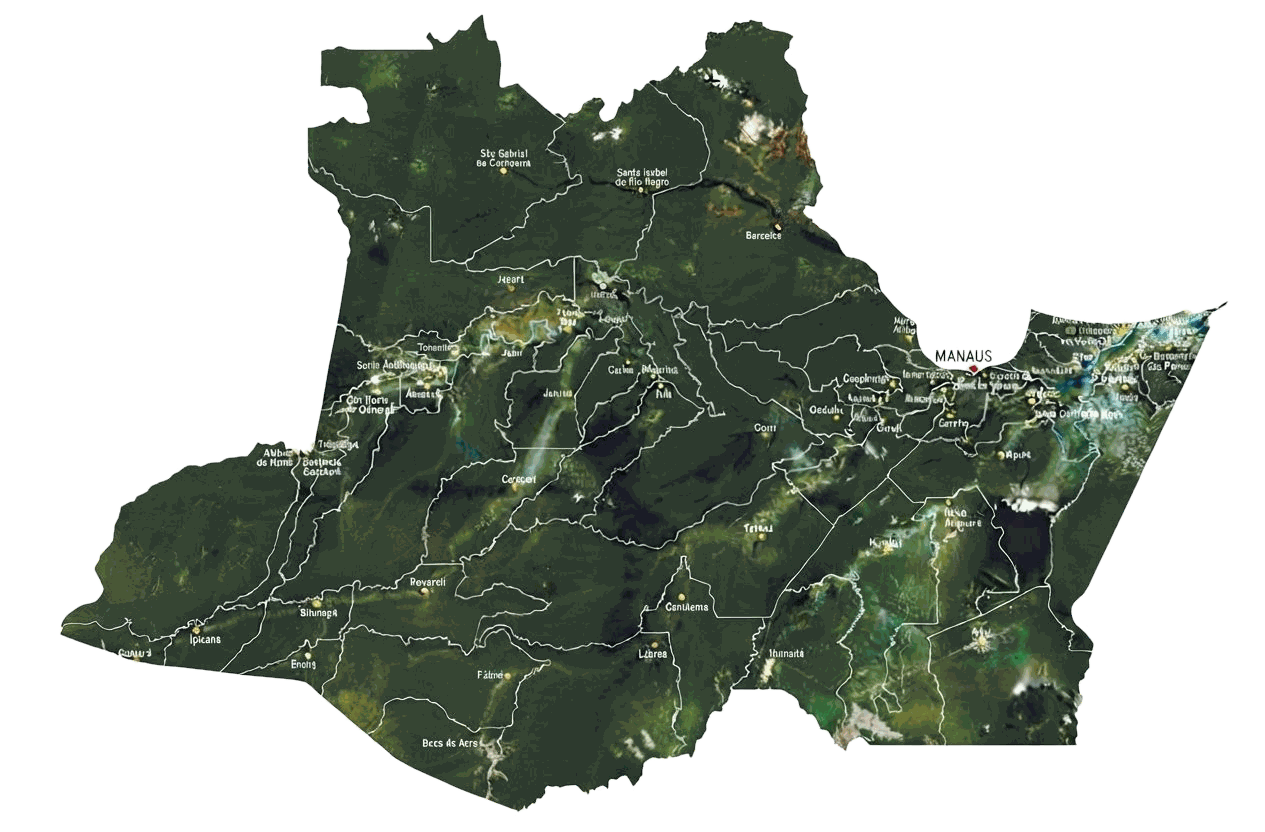
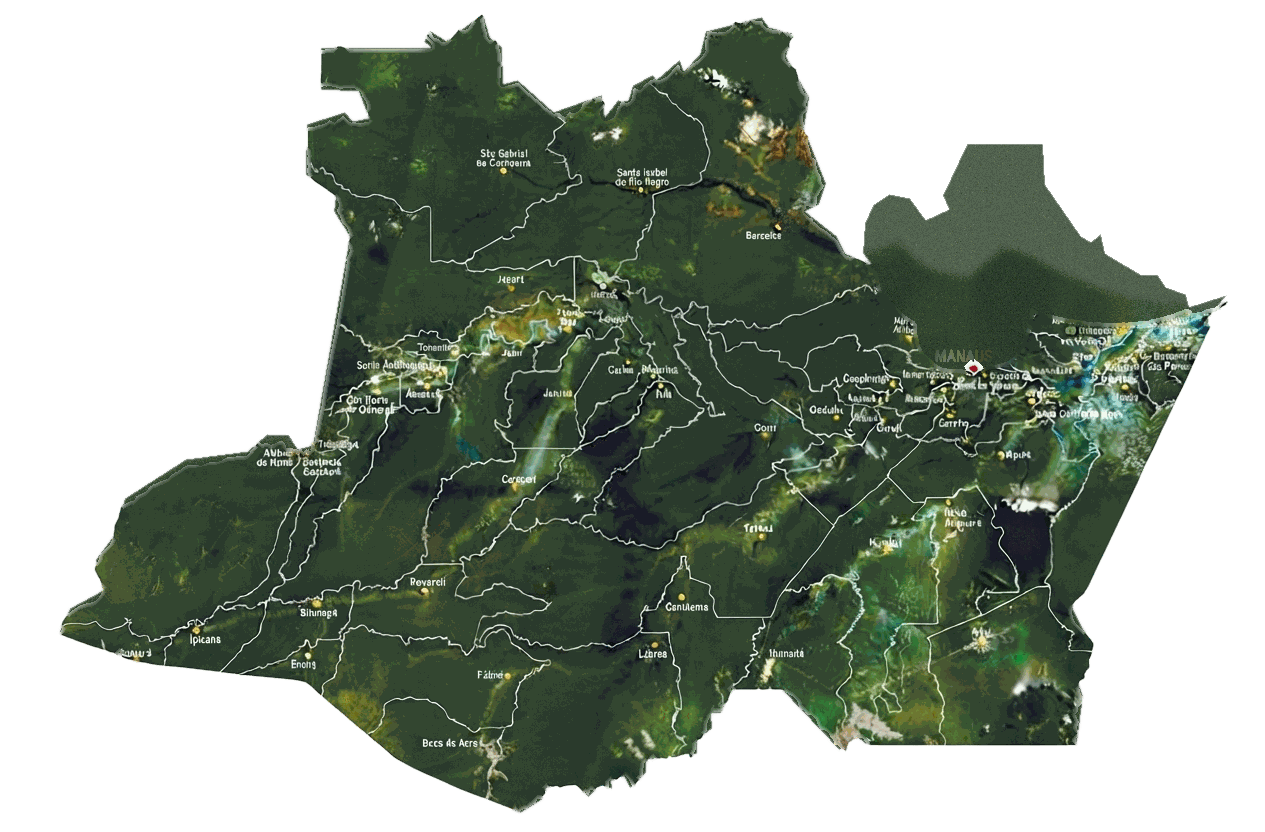
version 1.116
att

diff --git a/README.md b/README.md
@@ -347,13 +347,18 @@ de um pino e o relevo da foto embaixo dele podem acontecer, principalmente
 perto das bordas do estado.
 
 A foto original não cobria 100% do contorno oficial do estado (faltava um
-pedaço perto do canto nordeste) — o que apareceria como uma área branca
-"furando" o mapa. Corrigido tornando transparente só o fundo branco de
-verdade da foto (achado com preenchimento por inundação a partir das
-bordas da imagem, preservando texturas brancas que fazem parte da própria
-ilustração, como nuvens no meio da mata) e colocando atrás dela um verde
-de reserva (gradiente `fundoVerde`) — some qualquer parte sem cobertura,
-sem deixar branco aparecendo.
+pedaço perto do canto nordeste) — apareceria como uma área branca
+"furando" o mapa, destoando do resto. Em vez de só deixar transparente e
+mostrar um verde liso atrás (que também destoava, por ser um tom só,
+sem nenhuma textura), esse pedaço foi **repintado a partir da própria
+foto**: os pixels desse buraco foram reconstruídos com base na textura
+real de mata mais próxima dela na mesma imagem (técnica de inpainting,
+sempre evitando copiar pixels claros/brancos ou as linhas finas de
+fronteira como fonte, senão o remendo saía claro/acinzentado demais) e
+ajustados pra puxar pro mesmo tom médio de verde-escuro do resto da mata.
+Não é um trecho real de satélite (a foto não tinha esse dado ali pra
+começo de conversa), mas fica visualmente contínuo com o resto — sem
+nenhum "retângulo" óbvio de cor diferente.
 
 A foto é recortada exatamente no contorno do estado (mesmo `clipPath` que
 já limitava o fundo desenhado antes) e continua dentro do grupo que sofre
